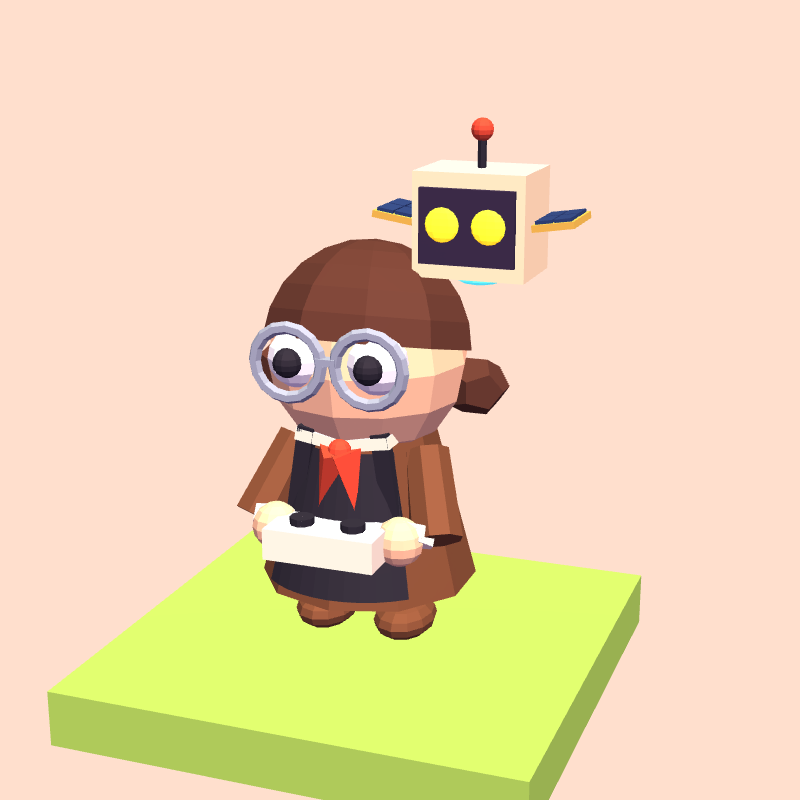
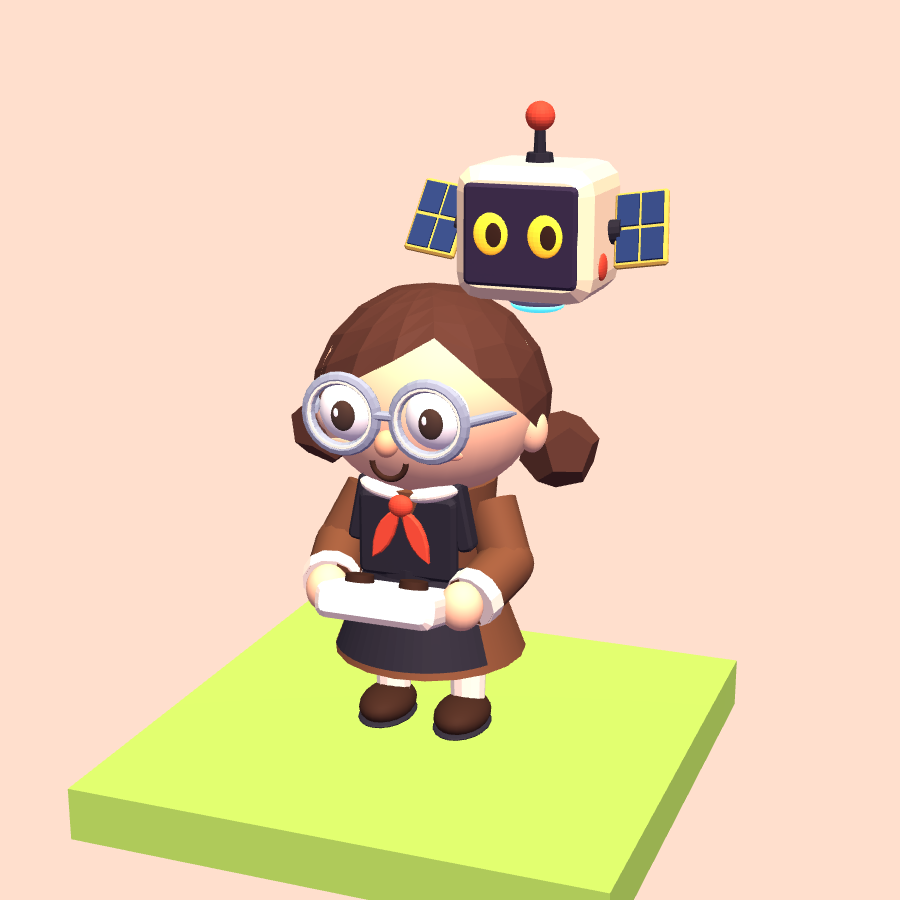
Уточнить модель изобретательницы и Фотона по референсу

Changed region(s): [[0.0625, 0.0938, 0.8438, 1.0]]

diff --git a/js/inventor.js b/js/inventor.js
@@ -9,89 +9,158 @@ const HeroInventor = (() => {
     const root = new THREE.Group();
     root.name = 'inventor';
     const mat = (color, extra) => new THREE.MeshStandardMaterial({ color, roughness: 0.65, flatShading: true, ...extra });
-    const brown = mat(0x70442e), skin = mat(0xffc49a), hairMat = mat(0x543128);
+    const brown = mat(0x70442e, { flatShading: false }), skin = mat(0xffc49a, { flatShading: false }), hairMat = mat(0x543128);
+    const iris = mat(0x3a231b, { flatShading: false }), blush = mat(0xeaa080, { flatShading: false });
     const black = mat(0x292630), cream = mat(0xffefd5), red = mat(0xd94732);
-    const metal = mat(0x929bad), amber = mat(0xffc43b, { emissive: 0xff9d00, emissiveIntensity: 0.65 });
+    const metal = mat(0x929bad), amber = mat(0xffc43b, { emissive: 0xff9d00, emissiveIntensity: 0.3 });
     const add = (geo, m, x, y, z, parent = root, name = '') => {
       const o = new THREE.Mesh(geo, m);
       o.position.set(x, y, z); o.name = name; o.castShadow = true;
       parent.add(o); return o;
     };
     const box = (w, h, d, m, x, y, z, parent, name) => add(new THREE.BoxGeometry(w, h, d), m, x, y, z, parent, name);
-    const ball = (r, m, x, y, z, parent, name) => add(new THREE.SphereGeometry(r, 12, 8), m, x, y, z, parent, name);
+    const ball = (r, m, x, y, z, parent, name) => add(new THREE.SphereGeometry(r, 20, 14), m, x, y, z, parent, name);
     const rest = (o, visible = true) => {
       o.visible = visible;
       o.userData.rest = { p: o.position.toArray(), s: o.scale.toArray(), r: o.rotation.toArray().slice(0, 3), v: visible };
       return o;
     };
-    // Платье, чёрный фартук, белые воротник/манжеты и красный галстук.
-    const body = add(new THREE.CylinderGeometry(0.14, 0.23, 0.34, 10), brown, 0, 0.31, 0, root, 'body');
-    add(new THREE.CylinderGeometry(0.147, 0.225, 0.29, 10, 1, true, -0.75, 1.5), black, 0, 0.31, 0.01);
+    // Скруглённые объёмы с небольшими фасками, как на утверждённом концепте.
+    const bevelBox = (w, h, d, bevel, m, x, y, z, parent = root, name = '') => {
+      const shape = new THREE.Shape(), hw = w / 2 - bevel, hh = h / 2 - bevel, r = Math.min(bevel, hw, hh);
+      shape.moveTo(-hw + r, -hh); shape.lineTo(hw - r, -hh);
+      shape.quadraticCurveTo(hw, -hh, hw, -hh + r); shape.lineTo(hw, hh - r);
+      shape.quadraticCurveTo(hw, hh, hw - r, hh); shape.lineTo(-hw + r, hh);
+      shape.quadraticCurveTo(-hw, hh, -hw, hh - r); shape.lineTo(-hw, -hh + r);
+      shape.quadraticCurveTo(-hw, -hh, -hw + r, -hh);
+      const geo = new THREE.ExtrudeGeometry(shape, { depth: d - 2 * bevel, bevelEnabled: true,
+        bevelSize: bevel, bevelThickness: bevel, bevelSegments: 1, steps: 1, curveSegments: 3 });
+      geo.translate(0, 0, -d / 2 + bevel);
+      return add(geo, m, x, y, z, parent, name);
+    };
+    const oval = (r, scale, m, x, y, z, parent = root, name = '') => {
+      const o = ball(r, m, x, y, z, parent, name); o.scale.set(...scale); return o;
+    };
+    const limb = (from, to, radius, m, parent) => {
+      const a = new THREE.Vector3(...from), b = new THREE.Vector3(...to), delta = b.clone().sub(a);
+      const o = add(new THREE.CylinderGeometry(radius, radius * 1.04, delta.length(), 12), m, 0, 0, 0, parent);
+      o.position.copy(a.add(b).multiplyScalar(0.5));
+      o.quaternion.setFromUnitVectors(new THREE.Vector3(0, 1, 0), delta.normalize()); return o;
+    };
+    // Отдельные лиф и юбка дают талию; чулки видны ниже подола.
+    const body = add(new THREE.CylinderGeometry(0.127, 0.115, 0.17, 20), brown, 0, 0.415, 0, root, 'body');
+    add(new THREE.CylinderGeometry(0.115, 0.183, 0.18, 20), brown, 0, 0.25, 0);
+    add(new THREE.CylinderGeometry(0.12, 0.177, 0.155, 20, 1, true, -1.04, 2.08), black, 0, 0.255, 0.012);
+    bevelBox(0.19, 0.16, 0.028, 0.008, black, 0, 0.413, 0.108, root, 'apronBib');
+    add(new THREE.CylinderGeometry(0.124, 0.124, 0.024, 20), black, 0, 0.337, 0);
+    [-1, 1].forEach(s => { oval(0.036, [1, 0.62, 0.35], black, s * 0.029, 0.337, -0.126).rotation.z = s * 0.25; });
     [-1, 1].forEach(s => {
-      box(0.035, 0.22, 0.025, black, s * 0.095, 0.39, 0.14).rotation.z = s * 0.15;
-      const collar = box(0.105, 0.025, 0.095, cream, s * 0.05, 0.475, 0.105);
-      collar.rotation.z = s * 0.16;
-      const tie = add(new THREE.ConeGeometry(0.041, 0.13, 3), red, s * 0.026, 0.398, 0.178);
-      tie.rotation.z = Math.PI + s * 0.24;
+      const strap = bevelBox(0.032, 0.13, 0.04, 0.006, black, s * 0.096, 0.455, 0.087);
+      strap.rotation.z = s * 0.2;
+      const collar = oval(0.055, [1, 0.32, 0.8], cream, s * 0.045, 0.497, 0.093);
+      collar.rotation.z = s * 0.22;
+      const tie = new THREE.Shape();
+      tie.moveTo(0, 0); tie.quadraticCurveTo(s * 0.045, -0.018, s * 0.047, -0.09);
+      tie.quadraticCurveTo(s * 0.005, -0.068, 0, 0);
+      const geo = new THREE.ExtrudeGeometry(tie, { depth: 0.008, bevelEnabled: true, bevelSize: 0.003,
+        bevelThickness: 0.003, bevelSegments: 1, steps: 1, curveSegments: 5 });
+      add(geo, red, s * 0.006, 0.471, 0.141);
     });
-    ball(0.025, red, 0, 0.46, 0.162);
-    const head = ball(0.21, skin, 0, 0.62, 0, root, 'head');
-    const cap = add(new THREE.SphereGeometry(0.224, 10, 6, 0, Math.PI * 2, 0, 1.52), hairMat, 0, 0.018, 0, head, 'hair');
-    cap.rotation.x = -0.23;
+    oval(0.023, [1, 0.9, 0.7], red, 0, 0.48, 0.145);
+    const head = add(new THREE.SphereGeometry(0.21, 24, 18).scale(1, 0.9, 0.92).translate(0, 0.035, 0), skin, 0, 0.62, 0, root, 'head');
+    // Неровная линия чёлки и боковой пробор вместо горизонтальной «шапочки».
+    const hairVertices = [], hairIndices = [], segments = 16, rows = 5;
+    const hairline = [[-Math.PI, 1.95], [-1.6, 1.78], [-0.8, 1.46], [-0.3, 1.18], [0.4, 0.8], [1.1, 1.45], [1.6, 1.78], [Math.PI, 1.95]];
+    for (let row = 0; row <= rows; row++) for (let i = 0; i <= segments; i++) {
+      const phi = -Math.PI + i / segments * Math.PI * 2;
+      const j = Math.max(1, hairline.findIndex(k => k[0] >= phi));
+      const [a, ta] = hairline[j - 1], [b, tb] = hairline[j];
+      const theta = row / rows * (ta + (tb - ta) * (phi - a) / (b - a));
+      hairVertices.push(0.225 * Math.sin(theta) * Math.sin(phi), 0.225 * Math.cos(theta) + 0.014, 0.221 * Math.sin(theta) * Math.cos(phi) - 0.012);
+      if (row < rows && i < segments) {
+        const k = row * (segments + 1) + i;
+        hairIndices.push(k, k + segments + 1, k + 1, k + 1, k + segments + 1, k + segments + 2);
+      }
+    }
+    const hairGeo = new THREE.BufferGeometry();
+    hairGeo.setAttribute('position', new THREE.Float32BufferAttribute(hairVertices, 3));
+    hairGeo.setIndex(hairIndices); hairGeo.computeVertexNormals();
+    add(hairGeo, hairMat, 0, 0, 0, head, 'hair');
     const ears = [-1, 1].map(s => {
-      const p = add(new THREE.DodecahedronGeometry(0.074, 0), hairMat, s * 0.215, -0.06, -0.055, head, 'pigtail');
-      p.scale.set(1, 0.85, 0.85); return p;
+      oval(0.043, [0.65, 1, 0.7], skin, s * 0.2, -0.015, 0, head);
+      const p = add(new THREE.DodecahedronGeometry(0.078, 0), hairMat, s * 0.233, -0.065, -0.06, head, 'pigtail');
+      p.scale.set(1, 0.95, 0.85); p.rotation.z = s * 0.3;
+      oval(0.031, [0.5, 1, 1], red, s * 0.203, -0.053, -0.058, head);
+      return p;
     });
     const eyes = [], pupils = [], joy = [], squint = [];
-    const white = mat(0xffffff);
-    [-0.085, 0.085].forEach(x => {
-      eyes.push(rest(ball(0.062, white, x, 0.65, 0.165, root, 'eye')));
-      pupils.push(rest(ball(0.03, black, x, 0.65, 0.218, root, 'pupil')));
-      add(new THREE.TorusGeometry(0.071, 0.013, 6, 16), metal, x, 0.65, 0.217);
-      joy.push(rest(add(new THREE.TorusGeometry(0.041, 0.012, 6, 12, Math.PI), black, x, 0.645, 0.22), false));
-      const q = new THREE.Group(); q.position.set(x, 0.65, 0.22); root.add(q);
-      [-1, 1].forEach(s => { box(0.065, 0.013, 0.015, black, 0, s * 0.015, 0, q).rotation.z = s * Math.sign(x) * 0.5; });
+    const white = mat(0xfffaf0, { flatShading: false });
+    const glass = mat(0xcce8ee, { transparent: true, opacity: 0.08, depthWrite: false, flatShading: false, roughness: 0.12 });
+    [-0.082, 0.082].forEach(x => {
+      eyes.push(rest(oval(0.058, [1, 1, 0.8], white, x, 0.66, 0.172, root, 'eye')));
+      const pupil = oval(0.027, [0.82, 1, 0.48], iris, x + 0.008, 0.66, 0.225, root, 'pupil');
+      oval(0.008, [0.7, 1, 0.4], white, -0.008, 0.009, 0.031, pupil);
+      pupils.push(rest(pupil));
+      add(new THREE.TorusGeometry(0.064, 0.012, 8, 24), metal, x, 0.66, 0.213);
+      add(new THREE.TorusGeometry(0.059, 0.004, 6, 24), cream, x, 0.66, 0.221);
+      oval(0.057, [1, 1, 0.17], glass, x, 0.66, 0.233);
+      limb([Math.sign(x) * 0.142, 0.66, 0.2], [Math.sign(x) * 0.198, 0.65, 0.027], 0.009, metal, root);
+      joy.push(rest(add(new THREE.TorusGeometry(0.036, 0.01, 6, 16, Math.PI), iris, x, 0.653, 0.226), false));
+      const q = new THREE.Group(); q.position.set(x, 0.66, 0.227); root.add(q);
+      [-1, 1].forEach(s => { box(0.055, 0.011, 0.012, iris, 0, s * 0.013, 0, q).rotation.z = s * Math.sign(x) * 0.5; });
       squint.push(rest(q, false));
+      oval(0.026, [1, 0.4, 0.18], blush, x * 1.28, 0.594, 0.176);
     });
-    box(0.04, 0.014, 0.025, metal, 0, 0.66, 0.22);
-    const mouth = rest(add(new THREE.TorusGeometry(0.045, 0.01, 6, 12, Math.PI), black, 0, 0.54, 0.195, root, 'mouth'), false);
-    // Руки и пульт движутся вместе; кисти простые, без мелких пальцев.
+    bevelBox(0.045, 0.015, 0.019, 0.004, metal, 0, 0.664, 0.215);
+    oval(0.027, [0.8, 0.9, 0.85], mat(0xf2ac80, { flatShading: false }), 0, 0.612, 0.207, root, 'nose');
+    const mouth = add(new THREE.TorusGeometry(0.032, 0.0055, 6, 16, Math.PI), iris, 0, 0.577, 0.196, root, 'mouth');
+    mouth.rotation.z = Math.PI; rest(mouth);
+    // Согнутые локти, округлые манжеты и ладони держат пульт спереди.
     const controls = new THREE.Group(); controls.name = 'inventorControls'; root.add(controls);
     [-1, 1].forEach(s => {
-      const arm = add(new THREE.CylinderGeometry(0.048, 0.055, 0.19, 8), brown, s * 0.17, 0.36, 0.085, controls);
-      arm.rotation.x = -0.55; arm.rotation.z = s * 0.3;
-      add(new THREE.CylinderGeometry(0.054, 0.054, 0.035, 8), cream, s * 0.145, 0.295, 0.15, controls).rotation.x = -0.55;
-      ball(0.05, skin, s * 0.135, 0.29, 0.18, controls);
+      const shoulder = [s * 0.119, 0.456, 0], elbow = [s * 0.166, 0.356, 0.037], wrist = [s * 0.137, 0.319, 0.156];
+      limb(shoulder, elbow, 0.048, brown, controls); ball(0.05, brown, ...elbow, controls);
+      limb(elbow, wrist, 0.049, brown, controls);
+      limb([s * 0.145, 0.328, 0.129], wrist, 0.052, cream, controls);
+      oval(0.048, [0.83, 0.93, 0.85], skin, s * 0.13, 0.319, 0.182, controls);
     });
-    box(0.235, 0.065, 0.115, cream, 0, 0.29, 0.23, controls, 'controller');
-    [-0.055, 0.055].forEach(x => add(new THREE.CylinderGeometry(0.025, 0.025, 0.015, 10), black, x, 0.33, 0.23, controls));
-    const feet = [-0.09, 0.09].map(x => {
-      const leg = new THREE.Group(); leg.position.set(x, 0.055, 0.02); leg.name = 'foot'; root.add(leg);
-      add(new THREE.CylinderGeometry(0.04, 0.04, 0.1, 8), cream, 0, 0.06, -0.02, leg);
-      ball(0.065, brown, 0, 0, 0, leg).scale.set(1, 0.65, 1.4);
+    const controller = new THREE.Group(); controller.position.set(0, 0.322, 0.222); controller.rotation.x = -0.25; controls.add(controller);
+    bevelBox(0.228, 0.065, 0.122, 0.012, cream, 0, 0, 0, controller, 'controller');
+    [-0.052, 0.052].forEach(x => add(new THREE.CylinderGeometry(0.025, 0.027, 0.016, 16), iris, x, 0.038, 0, controller));
+    const feet = [-0.077, 0.077].map(x => {
+      const leg = new THREE.Group(); leg.position.set(x, 0.04, 0.018); leg.name = 'foot'; root.add(leg);
+      add(new THREE.CylinderGeometry(0.037, 0.033, 0.15, 12), cream, 0, 0.085, -0.018, leg);
+      oval(0.061, [0.85, 0.55, 1.28], iris, 0, 0, 0.012, leg);
+      oval(0.061, [0.87, 0.16, 1.3], black, 0, -0.021, 0.013, leg);
       return rest(leg);
     });
 
-    // Увеличенный спутник у плеча; весь размах удерживается в радиусе клетки.
+    // Фаски корпуса, углублённый экран и короткие панели, обращённые к камере.
     const photon = new THREE.Group(); photon.name = 'photon'; root.add(photon);
     const shell = mat(0xffe3b5), screen = mat(0x332841), blue = mat(0x273967), gold = mat(0xd9ad48);
-    box(0.23, 0.21, 0.18, shell, 0, 0, 0, photon);
-    box(0.195, 0.15, 0.012, screen, 0, 0, 0.096, photon);
-    [-0.047, 0.047].forEach((x, i) => {
-      ball(0.035, amber, x, 0.005, 0.108, photon, 'photonEye' + i).scale.z = 0.35;
-      const arc = add(new THREE.TorusGeometry(0.026, 0.009, 5, 10, Math.PI), amber, x, 0, 0.111, photon, 'photonJoy' + i);
+    bevelBox(0.25, 0.235, 0.21, 0.024, shell, 0, 0, 0, photon, 'photonShell');
+    bevelBox(0.205, 0.177, 0.016, 0.006, screen, 0, 0, 0.105, photon);
+    [-0.049, 0.049].forEach((x, i) => {
+      const eye = oval(0.037, [0.85, 1, 0.26], amber, x, 0.004, 0.119, photon, 'photonEye' + i);
+      oval(0.021, [0.8, 1, 0.3], iris, 0.011, 0, 0.046, eye);
+      const arc = add(new THREE.TorusGeometry(0.027, 0.009, 6, 12, Math.PI), amber, x, 0, 0.12, photon, 'photonJoy' + i);
       arc.visible = false;
     });
-    add(new THREE.CylinderGeometry(0.009, 0.009, 0.065, 6), black, 0, 0.137, 0, photon);
-    ball(0.023, red, 0, 0.18, 0, photon);
-    const glow = mat(0x75e6df, { emissive: 0x27cabb, emissiveIntensity: 0.6 });
-    ball(0.055, glow, 0, -0.11, 0, photon, 'photonThruster').scale.set(1, 0.35, 1);
+    add(new THREE.CylinderGeometry(0.023, 0.026, 0.018, 12), black, 0, 0.124, 0, photon);
+    add(new THREE.CylinderGeometry(0.009, 0.011, 0.055, 10), black, 0, 0.158, 0, photon);
+    ball(0.026, red, 0, 0.196, 0, photon);
+    [-1, 1].forEach(s => oval(0.024, [0.3, 1, 1], red, s * 0.125, -0.058, 0.025, photon));
+    const glow = mat(0x75e6df, { emissive: 0x27cabb, emissiveIntensity: 0.6, flatShading: false });
+    oval(0.061, [1, 0.4, 0.85], metal, 0, -0.119, 0, photon);
+    oval(0.049, [1, 0.3, 0.85], glow, 0, -0.136, 0, photon, 'photonThruster');
     [-1, 1].forEach(s => {
       const wing = new THREE.Group(); wing.name = s < 0 ? 'photonLeft' : 'photonRight';
-      wing.position.x = s * 0.12; photon.add(wing);
-      box(0.085, 0.014, 0.14, gold, s * 0.045, 0, 0, wing);
+      wing.position.x = s * 0.133; photon.add(wing);
+      limb([0, 0, 0], [s * 0.02, 0, 0], 0.021, black, wing);
+      const panel = new THREE.Group(); panel.rotation.x = Math.PI / 3; wing.add(panel);
+      bevelBox(0.097, 0.014, 0.14, 0.004, gold, s * 0.055, 0, 0, panel);
       [-1, 1].forEach(a => [-1, 1].forEach(b => {
-        box(0.034, 0.007, 0.059, blue, s * 0.045 + a * 0.019, 0.01, b * 0.033, wing);
+        box(0.039, 0.006, 0.058, blue, s * 0.055 + a * 0.022, 0.01, b * 0.033, panel);
       }));
     });
     // Невидимые совместимые опоры для общей мимики; антенна есть только у спутника.
@@ -112,18 +181,22 @@ const HeroInventor = (() => {
     if (!p) {
       const find = n => root.getObjectByName(n);
       if (!find('photon')) return;
-      p = { photon: find('photon'), left: find('photonLeft'), right: find('photonRight'), controls: find('inventorControls'), eyes: [find('photonEye0'), find('photonEye1')], joy: [find('photonJoy0'), find('photonJoy1')] };
+      p = { photon: find('photon'), left: find('photonLeft'), right: find('photonRight'), controls: find('inventorControls'), mouth: find('mouth'), eyes: [find('photonEye0'), find('photonEye1')], joy: [find('photonJoy0'), find('photonJoy1')] };
       cache.set(root, p);
     }
     const calm = reduceMotion, happy = mood === 'happy' || (event === 'take' && age < 0.65), sad = mood === 'sad';
     const pulse = !calm && age >= 0 && age < 0.65 ? Math.sin(age / 0.65 * Math.PI) : 0;
-    p.photon.position.set(0.23, 0.91 + (calm ? 0 : Math.sin(time * 2.4) * 0.018) + (happy && !calm ? 0.025 : 0) - (sad && !calm ? 0.035 : 0), -0.035);
+    p.photon.position.set(0.195, 0.965 + (calm ? 0 : Math.sin(time * 2.4) * 0.018) + (happy && !calm ? 0.025 : 0) - (sad && !calm ? 0.035 : 0), -0.035);
     p.photon.rotation.set(calm ? 0 : moving ? 0.12 : event === 'check' ? pulse * 0.16 : 0, 0, calm ? 0 : Math.sin(time * 1.7) * 0.035);
     const fold = calm ? 0.15 : moving ? 0.5 : happy ? 0.3 + Math.sin(time * 6) * 0.12 : sad ? -0.18 : 0.15;
     p.left.rotation.z = -fold; p.right.rotation.z = fold;
     const blink = !calm && time % 3.6 < 0.14 ? 0.2 : 1;
     p.eyes.forEach(e => { e.visible = !happy; e.scale.y = blink; });
     p.joy.forEach(e => { e.visible = happy; });
+    // Общая мимика Бита скрывает рот в покое; у изобретательницы остаётся улыбка.
+    p.mouth.visible = true;
+    p.mouth.position.set(0, sad ? 0.55 : 0.577, 0.196);
+    p.mouth.rotation.set(0, 0, sad ? 0 : Math.PI);
     p.controls.rotation.x = event === 'check' ? -pulse * 0.08 : 0;
     p.controls.position.y = calm ? 0 : moving ? Math.sin(time * 9) * 0.006 : happy ? Math.sin(time * 6) * 0.008 : 0;
   }

diff --git a/docs/characters/inventor.md b/docs/characters/inventor.md
@@ -16,20 +16,28 @@
 
 - Коричневое платье до колен, чёрный фартук, белые воротник и манжеты,
   светлые чулки, тёмные туфли, красный пионерский галстук.
-- Крупная голова, волосы цельными гранёными формами, две короткие косички,
-  круглые защитные очки. Кисти простые, пульт с двумя кнопками.
-- «Фотон»: кремовый корпус, тёмный экран с двумя янтарными глазами,
+- Округлое лицо с носом, спокойной улыбкой и бликами в глазах. Волосы
+  гранёные, с боковым пробором и двумя короткими косичками. Круглые
+  защитные очки имеют оправу, дужки и прозрачные линзы.
+- Платье с отдельным лифом и расширяющейся юбкой; у фартука есть нагрудник,
+  лямки, пояс и бант сзади. Из-под подола видны чулки и округлые туфли.
+  Согнутые руки с манжетами держат скруглённый пульт с двумя кнопками.
+- «Фотон»: кремовый корпус с фасками, тёмный экран с двумя янтарными глазами
+  и тёмными зрачками,
   красная антенна, бирюзовое сопло, две короткие синие солнечные панели
-  с золотистой рамкой и четырьмя секциями на каждой.
-- Сохраняется увеличенный вариант спутника: корпус 0.23 единицы против
-  диаметра головы 0.42; размах панелей около 0.415. Иллюстрация задаёт
-  образ, а игровая модель использует упрощённые примитивы Three.js r128.
+  с золотистой рамкой и четырьмя секциями на каждой. Панели наклонены
+  вперёд: их ячейки читаются и на маленьком портрете.
+- Сохраняется увеличенный вариант спутника: корпус 0.25 единицы против
+  ширины головы 0.42; полный размах панелей около 0.473. Модель собрана
+  средствами Three.js r128: гладкие объёмы лица и рук, гранёные волосы,
+  фаски и небольшие детали. Освещение остаётся игровым; иллюстрация
+  служит референсом формы и пропорций.
 
 ## Поведение и анимации
 
 | Событие | Изобретательница | «Фотон» |
 |---|---|---|
-| Покой | Моргание, взгляд на цель и камеру | Лёгкое парение у плеча, моргание |
+| Покой | Спокойная улыбка, моргание, взгляд на цель и камеру | Лёгкое парение у плеча, моргание |
 | Шаг и поворот | Общие шаги, взгляд перед поворотом; пульт слегка движется | Наклон корпуса и поднятые панели |
 | Прыжок | Поджимает ноги, пружинит при приземлении | Следует вместе с героиней, панели складываются |
 | Проверка датчика | Смотрит в направлении проверки, слегка наклоняет пульт | Короткий кивок и двойной радиосигнал |
